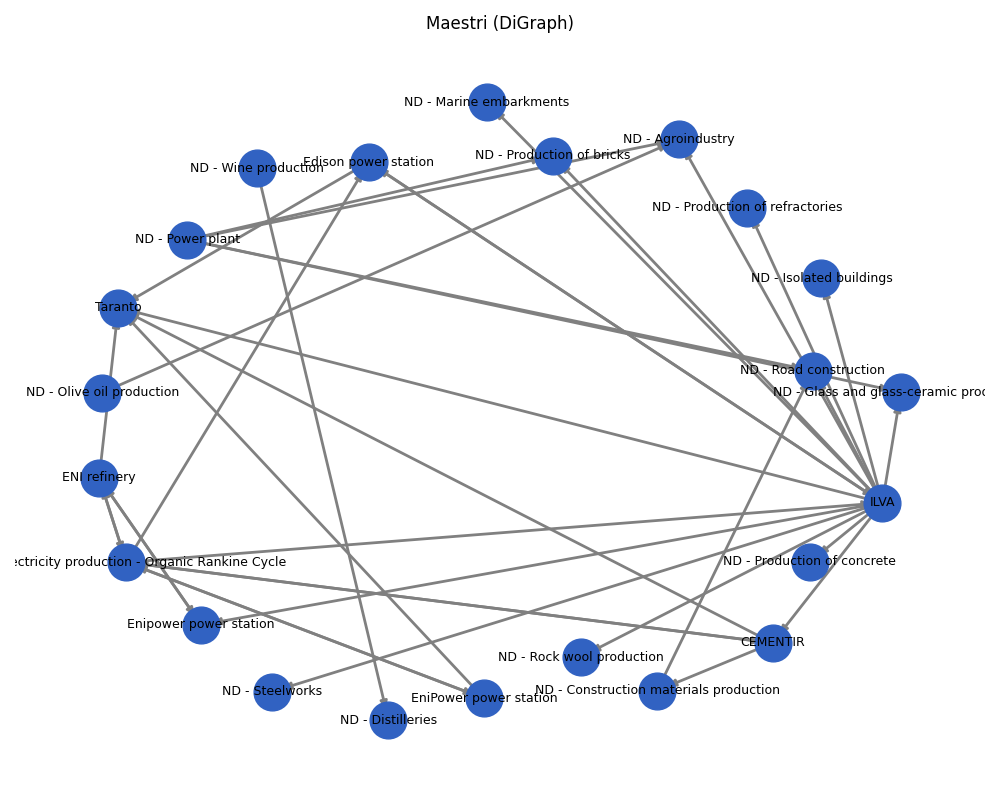
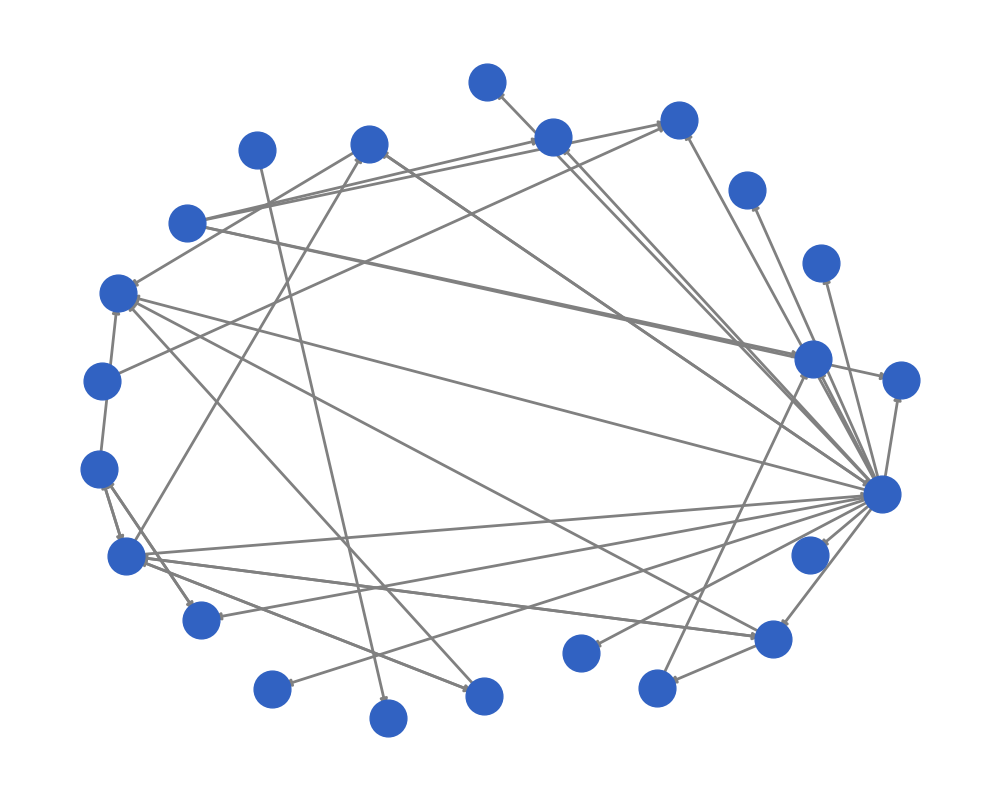
modify ISN figures to remove labels and titles

Changed region(s): [[0.031, 0.0625, 0.992, 0.9375], [0.434, 0.0, 0.558, 0.0312], [0.403, 0.5625, 0.496, 0.625]]

diff --git a/main_plain.py b/main_plain.py
@@ -350,7 +350,7 @@ def compare_with_maestri(all_exchanges_df, case_file, save_folder):
 
         plt.figure(figsize=(10, 8))
         nx.draw_networkx_nodes(G, pos, node_color='#3162C2', node_size=700)
-        nx.draw_networkx_labels(G, pos, font_size=9)
+        # nx.draw_networkx_labels(G, pos, font_size=9)
         # Draw all edges, including multiple edges for MultiDiGraph
         if isinstance(G, nx.MultiDiGraph):
             # Group edges by (u, v)
@@ -374,7 +374,7 @@ def compare_with_maestri(all_exchanges_df, case_file, save_folder):
                         )
         else:
             nx.draw_networkx_edges(G, pos, arrows=True, arrowstyle='-|>', edge_color='grey', width=2)
-        plt.title(title)
+        # plt.title(title)
         plt.axis('off')
         plt.tight_layout()
         plt.savefig(os.path.join(save_folder, filename))
